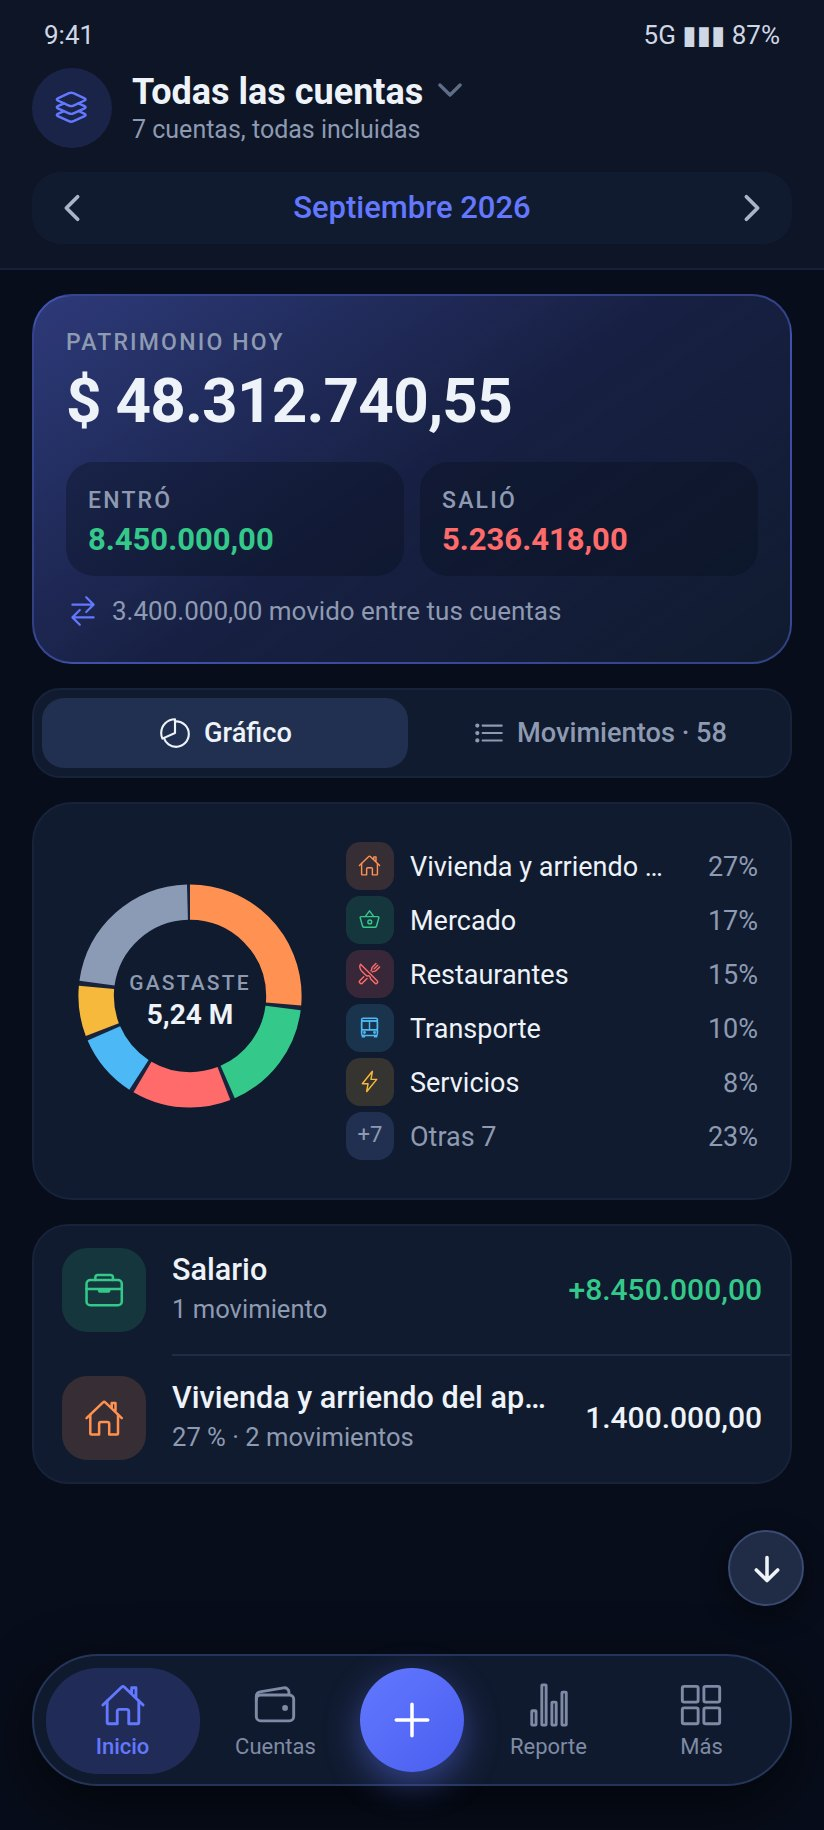
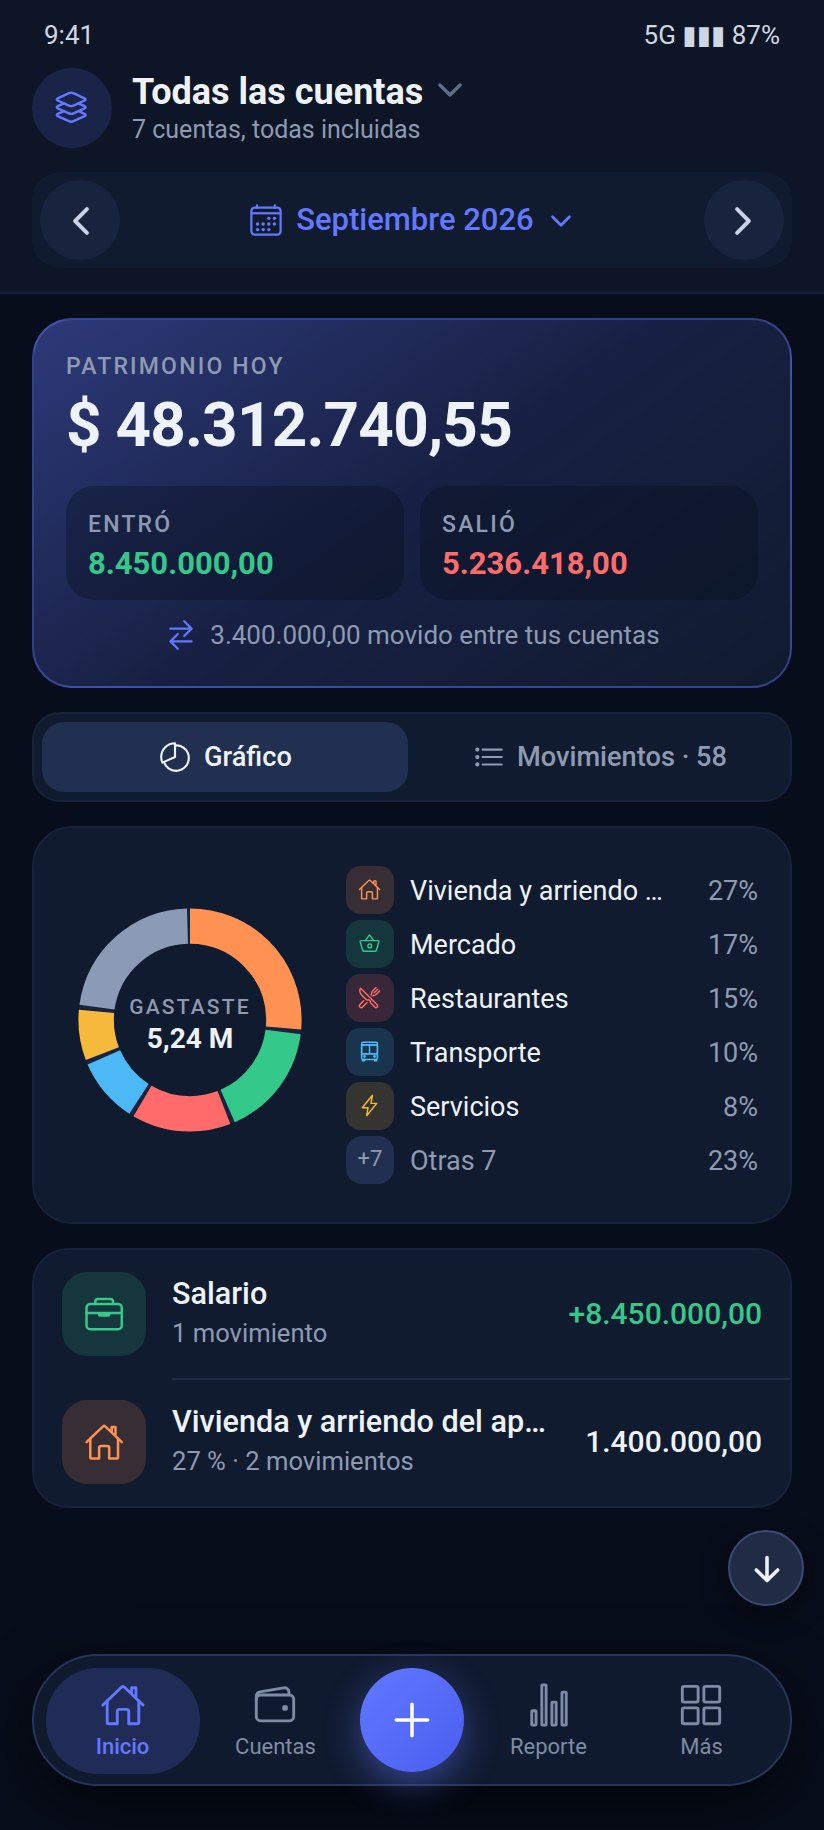
Centre a lone transfer figure, one full-row period bar everywhere
Recibido or Enviado alone sits centred under Entró and Salió (1q). The
period is one full row with round arrows on Inicio and in an account's
movements in Rendimientos, the search on its own row below.

Claude-Session: https://claude.ai/code/session_01QyUqFix1SMdsKVBtd1Wz88

diff --git a/CLAUDE.md b/CLAUDE.md
@@ -2339,6 +2339,18 @@ together: close all, as today) does them all at once. Drawn in `1b`,
 `1c`, `1o` (by category), `1p` (all open), `4d` and `4d2` (a day further
 down opened); the same shape goes to Por revisar and every later group.
 
+**And two more from Jose (2026-09-28):**
+
+- **A transfer figure alone sits centred.** Under Entró and Salió, Recibido
+  and Enviado show only when they exist; when only one does, it sits in the
+  middle at half the width (`1q`), and the all-accounts line "movido entre
+  tus cuentas" is centred too.
+- **The period is one full row wherever a list goes by period** - Inicio
+  and an account's Movimientos in Rendimientos alike (`periodBar` in
+  `lib.mjs`, one definition): round 40px arrows at the edges, the period
+  in the middle opening the period sheet, and the search on its own full
+  row under it (`4d`, `4d2`). The report's is the same shape.
+
 ### The ideas, by what they would take
 
 | # | Idea | Size | Touches | Status |
